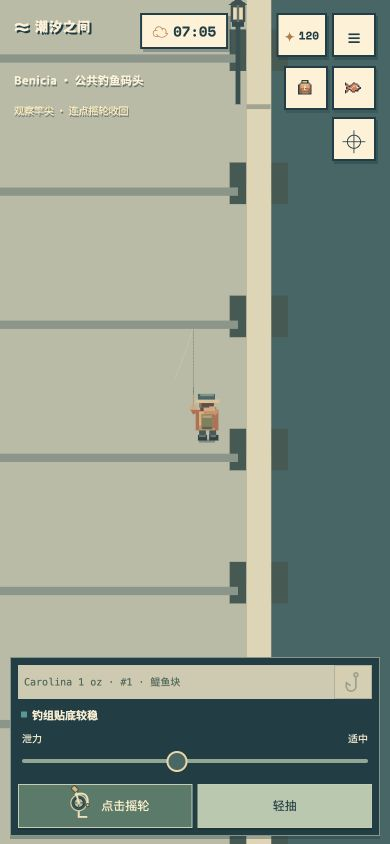
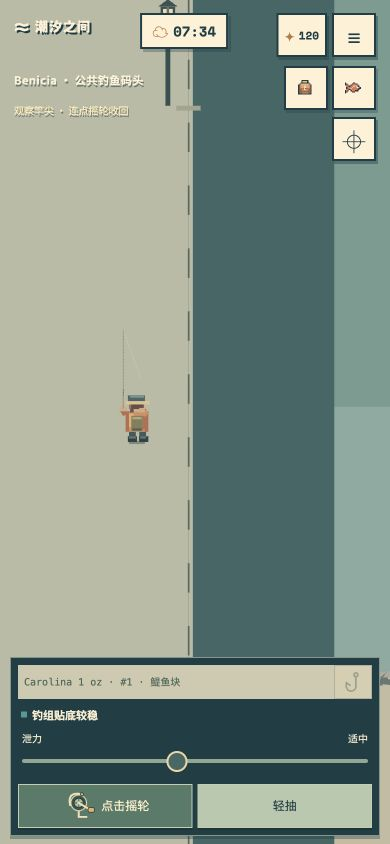
Scale Benicia railings and record responsive fishing checks

diff --git a/dist/benicia-world.js b/dist/benicia-world.js
@@ -81,8 +81,16 @@ export function createBeniciaWorld(canvas){
  }
  function pier(){const p=scene.pier;
   rect(p.x-25,p.top+15,74,p.bottom-p.top,'#3e6765');g.save();g.translate(0,-m(3.5));rect(p.x-32,p.top,64,p.bottom-p.top,'#b9bba5');
-  for(let y=p.top+5;y<p.bottom;y+=16){rect(p.x-29,y,58,1,'#8a9589');for(const x of[p.x-32,p.x+30]){rect(x,y,3,14,'#546861');rect(x-2,y+13,7,5,'#415a53');}}
-  for(const x of[p.x-32,p.x+30])rect(x,p.top,3,p.bottom-p.top,'#e0d4b2');rect(p.x-32,p.top,64,3,'#e4dab9');
+  // Joints and railings are metric props too, not metre-thick strokes left
+  // over from the old enlarged-person artwork.
+  for(let y=p.top+5;y<p.bottom;y+=16)rect(p.x-32,y,64,m(.015),'#8a9589');
+  function rail(x0,y0,x1,y1){
+   const height=m(1.1),count=Math.ceil(Math.hypot(x1-x0,y1-y0)/m(2.4));
+   line(x0,y0-height,x1,y1-height,'#e0d4b2',m(.05));
+   line(x0,y0-height*.5,x1,y1-height*.5,'#879488',m(.035));
+   for(let i=0;i<=count;i++){const f=i/count,x=x0+(x1-x0)*f,y=y0+(y1-y0)*f;line(x,y,x,y-height,'#546861',m(.065));}
+  }
+  rail(p.x-31.5,p.top,p.x-31.5,p.bottom);rail(p.x+31.5,p.top,p.x+31.5,p.bottom);rail(p.x-31.5,p.top,p.x+31.5,p.top);
   for(const y of[p.top+42,p.top+123]){lamp(p.x+29,y);bench(p.x-3,y+20);}
   g.restore();
   withShoreProp(g,p.x,p.bottom+25,.08,()=>{rect(p.x-68,p.bottom+10,136,22,'#355e5d');label('BENICIA FISHING PIER',p.x,p.bottom+25,9,'#f1dfb4');});

diff --git a/qa/benicia-physics/README.md b/qa/benicia-physics/README.md
@@ -10,6 +10,7 @@ Reproduced before the fix: an unreeled spoon cast 21.40 m from its release point
 - Losing contact with rock clears the old snag exposure. Drift onto mud or lifting off the bottom cannot trigger a break from a previous patch of rock.
 - The Benicia deck uses the same elevation as the angler. Picking the projected deck resolves to its walkable surface. It occludes the lower line and tackle underneath.
 - Empty-rig reel clicks and twitches no longer briefly zoom the camera in, which visually enlarged the line during an inward stroke. The camera still fits actual travel and fish fights.
+- Close-view testing also exposed oversized legacy railing/joint strokes; the Benicia rails and deck joints now use metre-based dimensions consistent with the angler.
 
 ## Automated coverage
 
@@ -21,6 +22,6 @@ Existing encounter/fight/landing, inventory, keep/release, inspections, purchase
 
 ## Browser checks
 
-Uninstrumented CUA browser interaction at 390 × 844: enter/walk along the public pier, aim, short-cast on land versus in water, let a spoon sink/drift, twitch, repeatedly click the reel until retrieval, verify configuration unlocks only once retrieved, swap to Carolina tackle, attach anchovy (stock 6 → 5), and cast the bottom rig without a bobber. Reload/resume retained the clock and inventory. Screenshot evidence is stored here; rendering alone does not prove the physics invariants above.
+Uninstrumented CUA browser interaction at 390 × 844, 844 × 390 and 1280 × 800: enter/walk along the public pier, aim, short-cast on land versus in water, let a spoon sink/drift, twitch, repeatedly click the reel until retrieval, verify configuration unlocks only once retrieved, swap to Carolina tackle, attach anchovy (stock 6 → 5), and cast the bottom rig without a bobber. Reload/resume retained the clock and inventory. Screenshot evidence is stored here; rendering alone does not prove the physics invariants above.
 
 All magnitudes remain authored game approximations. This change is not a calibrated fishing-line elasticity or commercial reel model.
